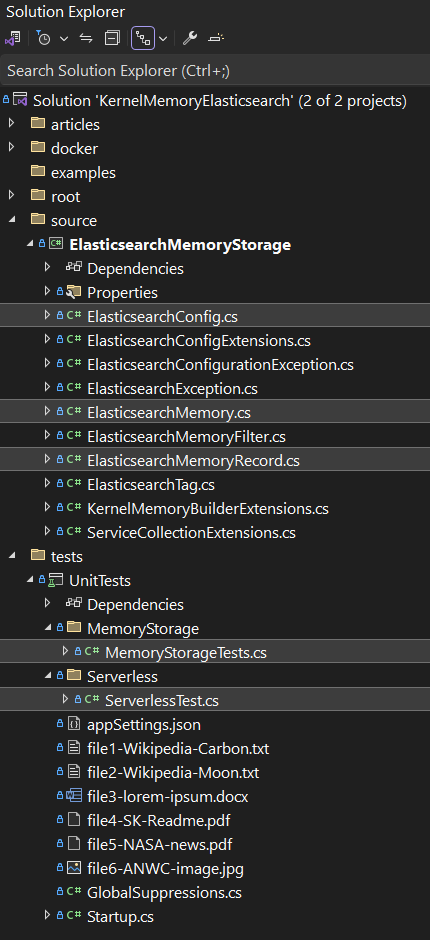
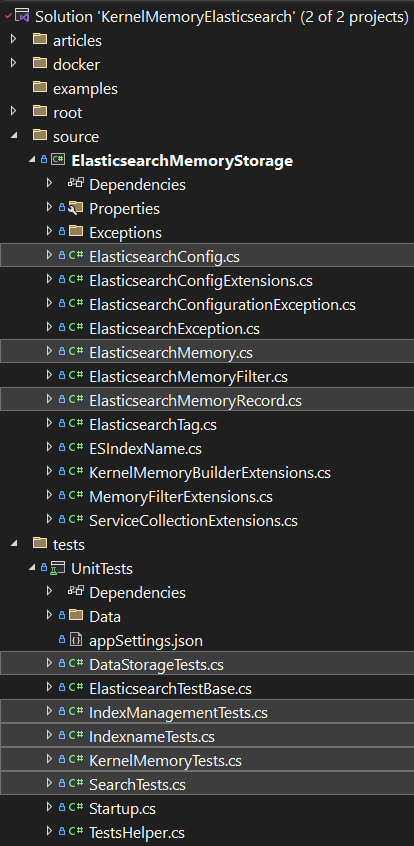
0.8.1 -Added new extension to register DI -Misc improvements on text

diff --git a/src/ElasticsearchMemoryStorage/KernelMemoryBuilderExtensions.cs b/src/ElasticsearchMemoryStorage/KernelMemoryBuilderExtensions.cs
@@ -37,6 +37,15 @@ public static partial class KernelMemoryBuilderExtensions
     /// <summary>
     /// Kernel Memory Builder extension method to add the Elasticsearch memory connector.
     /// </summary>
+    public static IKernelMemoryBuilder WithElasticsearch(this IKernelMemoryBuilder builder, ElasticsearchConfig config)
+    {
+        builder.Services.AddElasticsearchAsVectorDb(config);
+        return builder;
+    }
+
+    /// <summary>
+    /// Kernel Memory Builder extension method to add the Elasticsearch memory connector.
+    /// </summary>
     /// <param name="builder">The IKernelMemoryBuilder instance</param>
     /// <param name="configuration">The application configuration</param>"
     public static IKernelMemoryBuilder WithElasticsearch(this IKernelMemoryBuilder builder, IConfiguration configuration)

diff --git a/README.md b/README.md
@@ -5,7 +5,7 @@ Use [Elasticsearch](https://www.elastic.co/) as vector storage for Microsoft [Ke
 [![NuGet](https://img.shields.io/nuget/v/Freemindlabs.KernelMemory.Elasticsearch.svg)](https://www.nuget.org/packages/Freemindlabs.KernelMemory.Elasticsearch) [![NuGet](https://img.shields.io/nuget/dt/Freemindlabs.KernelMemory.Elasticsearch.svg)](https://www.nuget.org/packages/Freemindlabs.KernelMemory.Elasticsearch) [![License: MIT](https://img.shields.io/github/license/microsoft/kernel-memory)](https://github.com/freemindlabsinc/FreeMindLabs.SemanticKernel/blob/main/LICENSE) 
 
 
-**Kernel Memory** (KM) is a **multi-modal [AI Service](service/Service/README.md)** specialized in the efficient indexing of datasets through custom continuous data hybrid pipelines, with support for **[Retrieval Augmented eneration](https://en.wikipedia.org/wiki/Prompt_engineering#Retrieval-augmented_generation)** (RAG), synthetic memory, prompt engineering, and custom semantic memory processing.
+**Kernel Memory** (KM) is a **multi-modal [AI Service](service/Service/README.md)** specialized in the efficient indexing of datasets through custom continuous data hybrid pipelines, with support for **[Retrieval Augmented Generation](https://en.wikipedia.org/wiki/Prompt_engineering#Retrieval-augmented_generation)** (RAG), synthetic memory, prompt engineering, and custom semantic memory processing.
 
 <img src="content/images/Pipelines.jpg"/>
 
@@ -15,49 +15,68 @@ Utilizing advanced embeddings and LLMs, the system enables Natural Language quer
 
 ---
 
-This repository contains the **Elasticsearch adapter** that allows KM to use Elasticsearch as vector database, thus allowing developers to perform [lexical and semantic search](https://www.elastic.co/search-labs/blog/articles/lexical-and-semantic-search-with-elasticsearch), in addition to hybrid, keyword and full-text search.
-
->If you want to read more about semantic search, click [here](https://www.elastic.co/guide/en/elasticsearch/reference/current/semantic-search.html). For more on hybrid search, click [here](https://opster.com/guides/elasticsearch/machine-learning/elasticsearch-hybrid-search/)
+This repository contains the **Elasticsearch adapter** that allows KM to use Elasticsearch as vector database, thus allowing developers to perform [lexical and semantic search](https://www.elastic.co/search-labs/blog/articles/lexical-and-semantic-search-with-elasticsearch), in addition to [hybrid](https://opster.com/guides/elasticsearch/machine-learning/elasticsearch-hybrid-search/), keyword and full-text search on your *semantic content*.
 
 ## Pre-requisites
 
-1. A running instance of Elasticsearch    
-    1. You can install a local instance of Elasticsearch using Docker. See *[How to install the Elastic Stack using Docker Compose](/docker/README2.md)*.
-  1. 
+1. A running instance of Elasticsearch
 
-## Goals
-
-1. To implement an maintain an open source Elasticsearch [IMemoryDB](https://github.com/microsoft/kernel-memory/blob/adce865a472728f2549428cf6b82ca79a601582b/service/Abstractions/MemoryStorage/IMemoryDb.cs#L9) connector for Kernel Memory.
-
-    1. Free Mind Labs require such connector to complete [Videomatic](https://github.com/freemindlabsinc/videomatic).
-        
-    1. The basic connector (i.e. the complete implementation of IMemoryDb) will be free of charge and open source.
-
-2. In the future we hope to add additional features (e.g. *advanced search options for pre and post filtering, analytics, ES-specific features, etc.*) that could generate some revenue to support this and other projects. 
-    1. Patreon?
-    1. GitHub donations?
-    1. Other?
-
-*We'd love to hear what you think about this.* 
-
-## Updates
-
-- :notebook: This repo is growing and right now we log our thoughts and progress in  [this diary page](DIARY.md).
-- :hammer_and_wrench: An additional list of TODOs can be found [here](TODO.md).
-
-## How to setup a running instance of Elasticsearch
-
-You need to have [Docker](https://docs.docker.com/get-docker/) and [Docker Compose](https://docs.docker.com/compose/install/) installed before continuing.
-
-To simplify the setup of a running instance of Elasticsearch we created the article [Installing the Elastic Stack using Docker Compose](/docker/Readme.md) that guides you through the process.  It is a three step operation and it should take less than five minutes to complete.
-
-The following diagram shows what we will be running once we complete the installation.
-
+    1. You can install a **local instance** of Elasticsearch using Docker.
+    To simplify the setup of a running instance of Elasticsearch we prepared the article [Installing the Elastic Stack using Docker Compose](/docker/Readme.md) that guides you through the process. *The following diagram shows what will be running once the installation is complete.*
 <div align="center">
     <img src="docker/images/ELKStack.png" width="500px"</img>
 </div>
 
-More details about the individual components in the diagram can be found in [the installation article](/docker/Readme.md).
+2. Alternatively you can use a **cloud** service like [Elastic Cloud](https://www.elastic.co/cloud/). The free tier is enough.
+
+## Configuration
+
+The xUnit project UnitTests contains an [appSettings.json](tests/UnitTests/appSettings.json) file that lists all available options. The file reads as follows:
+
+```
+{
+  "OpenAI": {
+    "ApiKey": "...SECRETS...",
+    "EmbeddingModelId": "text-embedding-ada-002",
+    "ModelId": "text-davinci-003",
+    "ChatModelId": "gpt-3.5-turbo"
+  },  
+  "Elasticsearch": {
+    "CertificateFingerPrint": "...SECRETS...",
+    "Endpoint": "https://localhost:9200",
+    "UserName": "...SECRETS...",
+    "Password": "...SECRETS..."
+  }
+}
+```
+
+>*The class used to store configuration is [ElasticsearchConfig](/src/ElasticsearchMemoryStorage/ElasticsearchConfig.cs).*
+
+This file is supposed to show the available options but it is not meant to store sensitive information such as ```ApiKey```, ```Password``` or ```CertificateFingerPrint```. Modify this file as necessary (e.g. by changing the Endpoint), but add the values for the certificate fingerprint and the password in user secrets.
+
+### How to add user secrets
+
+To add secrets either:
+- Open the secrets file in your IDE by right clicking on the project name and selecting Manage User Secrets.
+    - To read more about user secrets click [here](https://learn.microsoft.com/en-us/aspnet/core/security/app-secrets?view=aspnetcore-8.0&tabs=windows)
+
+- Add the secrets from the command line by running the following commands:
+```
+> dotnet user-secrets set "OpenAI:ApiKey" "...your Open AI API key..."
+> dotnet user-secrets set "Elasticsearch:CertificateFingerPrint" "...your value..."
+> dotnet user-secrets set "Elasticsearch:Password" "...your value..."
+```
+
+This ultimately results in the following secrets.json additions:
+```
+{  
+  [..]
+  "OpenAI:ApiKey": "...your Open AI API key...",
+  "Elasticsearch:CertificateFingerPrint": "...your value...",
+  "Elasticsearch:Password": "...your value...",  
+}
+```
+
 
 ## The .NET Solution
 
@@ -70,58 +89,44 @@ We highlighted some of the most important files for you to explore and look at.
 
 ---
 
-Here are some screenshots of the tests included in the project. This project uses a test-first approach, so you should expect to find examples of how to use the connector in the tests themselves.
-
-:warning: Future articles will explain in better detail what the tests do.
-
->
-
-Look at the output window to see what they do.
+Here are some screenshots of the tests included in the project. 
+This project tries to follow [TDD](https://www.coscreen.co/blog/tdd-in-c-guide/) an uses a test-first approach. The tests are meant to show how to use the library and to teach of the available features.
 
 <p align="center">
- <img src="/content/images/BehavesLike.jpg" width=500 />
+ <img src="/content/images/TestRunning.png" width=500 />
 </p>
 
-Click [here](tests/UnitTests/MemoryStorage/MemoryStorageTests.cs) to see the source code of the test.
+Click [here](tests/UnitTests/DataStorageTests.cs) to see the source code of the test.
+
+*Always make sure to look at the output window to see details about the execution.* :eyes:
+
 
 <p align="center">
- <img src="/content/images/CarbonBondTo.jpg" width=500 />
+ <img src="/content/images/CreateIndices.png" width=500 />
 </p>
 
-Click [here](tests/UnitTests/Serverless/ServerlessTest.cs) to see the source code of the test.
+Click [here](tests/UnitTests/IndexManagementTests.cs) to see the source code of the test.
 
-### Mappings
-The examples use the OpenAI's text-embedding-ada-002.
-It is possible to use any other embedding model supported by SK (e.g. Azure Open AI and Hugging Face).
+## How to add the Elasticsearch adapter to your Kernel Memory project
 
-<p align="center">
- <img src="/content/images/Mappings.jpg" width=900 />
-</p>
+In order to add the Elasticsearch adapter to your project you first need to add a reference to the [Freemindlabs.KernelMemory.Elasticsearch](https://www.nuget.org/packages/Freemindlabs.KernelMemory.Elasticsearch) NuGet package.
 
-### Kibana
-Here are some screenshots of the data stored in ES, after running the tests in the solution.
+```
+> dotnet add package Freemindlabs.KernelMemory.Elasticsearch
+```
 
-<p align="center">
- <img src="/content/images/DataPageAllRows.jpg" width=600 />
-</p>
+Then you need to add the following code to your Startup.cs file:
 
-<p align="center">
- <img src="/content/images/DataPage1.jpg" width=600 />
-</p>
+```csharp
 
-<p align="center">
- <img src="/content/images/DataPage2.jpg" width=600 />
-</p>
+```
 
-### KNN Query
-Here's an example of how to run semantic search directly on ES.
-
-<p align="center">
- <img src="/content/images/KnnQuery.jpg" width=600 />
-</p>
 
 
 ## Resources
+
+1. :fire: [ How to build a Kernel Memory connector and use Elasticsearch as vector database - Part 1](/content/IMemoryDbArticle.md)
+      1. To be relocated and published officially on Microsoft's [devblogs for Semantic kernel](https://devblogs.microsoft.com/semantic-kernel/).
 
 1. [A Quick Introduction to Vector Search](https://opster.com/guides/opensearch/opensearch-machine-learning/introduction-to-vector-search/)
 1. [Elasticsearch Hybrid Search](https://opster.com/guides/elasticsearch/machine-learning/elasticsearch-hybrid-search/)

diff --git a/docker/README.md b/docker/README.md
@@ -1,5 +1,10 @@
 # How to install the Elastic Stack using Docker Compose
 
+## Prerequisites
+You need to have [Docker](https://docs.docker.com/get-docker/) and [Docker Compose](https://docs.docker.com/compose/install/) installed before continuing.
+
+## The installation
+
 There are several ways to install and run the Elastic Stack on a development  machine. We will install the Elastic Stack using Docker Compose as inspired by the articles of [Eddie Mitchell](https://www.elastic.co/blog/author/eddie-mitchell). 
 
 The necessary files have been copied in the ```/docker``` folder so that we can run it directly without the need to Mitchell's repository, and so that we can alter them as necessary in the future.
@@ -17,11 +22,12 @@ The files we might need to access and change have also been grouped under the so
 - **.env.example**: [this file](/.env.example) contains a complete example of all the options available. 
   - It is not used by Docker Compose, and it should only be used as a reference when creating the .env file. This is how such file reads:
 
-> :warning: **IMPORTANT**: the default username/password for Kibana and Elasticsearch is ```elastic```/```changeme```. You can change the password in your .env file.
-
 <div align="center">
     <img src="images/EnvSample.png" width="500px"</img>
 </div>
+
+
+> :warning: The default username/password for Kibana and Elasticsearch is ```elastic```/```changeme```. You can change such values in your .env file.
 
 - **docker-compose.yml**: [this file](./docker-compose.yml) contains the configuration for Docker Compose. The compose file will allow us to run the Elastic Stack on a single machine and get access to the Elasticsearch, Kibana, Logstash, Filebeat, and Metricbeat.
 

diff --git a/CONFIGURATION.md b/CONFIGURATION.md
@@ -1,4 +1,5 @@
 # Configuration
+
 The xUnit project UnitTests contains an [appSettings.json](tests/UnitTests/appSettings.json) file that lists all available options. The file reads as follows:
 
 ```
